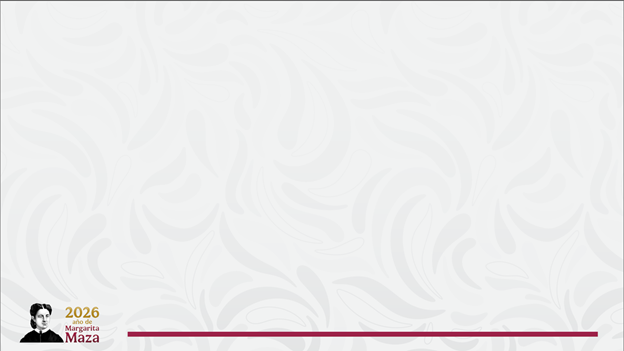
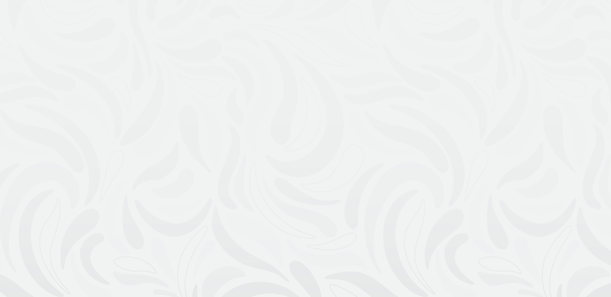
cambios2

Changed region(s): [[0.0, 0.0, 1.0, 1.0], [0.1866, 0.9394, 0.964, 0.9697], [0.0311, 0.8485, 0.1555, 1.0]]

diff --git a/app.py b/app.py
@@ -686,6 +686,14 @@ def generar_reporte_quincenal_html(registros, periodo_label):
 
             secciones_html += f'''
             <div class="pagina">
+                <div class="encabezado-pagina">
+                    <div class="encabezado-texto">
+                        <p class="proyecto">Proyecto ferroviario</p>
+                        <p class="tramo-nombre">TRAMO {tramo_nombre}</p>
+                        <p class="liberacion">Liberación del derecho de vía <span style="color:#6E152E;">(Propiedad Social)</span></p>
+                    </div>
+                    <div class="encabezado-logo"></div>
+                </div>
                 <div class="seccion-header verde">
                     ACTIVIDADES REALIZADAS EN CAMPO Y/O GABINETE, PROPIEDAD SOCIAL
                 </div>
@@ -723,6 +731,14 @@ def generar_reporte_quincenal_html(registros, periodo_label):
 
             secciones_html += f'''
             <div class="pagina">
+                <div class="encabezado-pagina">
+                    <div class="encabezado-texto">
+                        <p class="proyecto">Proyecto ferroviario</p>
+                        <p class="tramo-nombre">TRAMO {tramo_nombre}</p>
+                        <p class="liberacion">Liberación del derecho de vía <span style="color:#6E152E;">(Propiedad Social)</span></p>
+                    </div>
+                    <div class="encabezado-logo"></div>
+                </div>
                 <div class="seccion-header verde">
                     ACTIVIDADES REALIZADAS EN CAMPO (MEDICIÓN) &ndash; PROPIEDAD SOCIAL
                 </div>
@@ -756,6 +772,14 @@ def generar_reporte_quincenal_html(registros, periodo_label):
 
             secciones_html += f'''
             <div class="pagina">
+                <div class="encabezado-pagina">
+                    <div class="encabezado-texto">
+                        <p class="proyecto">Proyecto ferroviario</p>
+                        <p class="tramo-nombre">TRAMO {tramo_nombre}</p>
+                        <p class="liberacion">Liberación del derecho de vía <span style="color:#6E152E;">(Propiedad Privada)</span></p>
+                    </div>
+                    <div class="encabezado-logo"></div>
+                </div>
                 <div class="seccion-header verde">
                     ACTIVIDADES REALIZADAS EN CAMPO Y/O GABINETE, PROPIEDAD PRIVADA
                 </div>
@@ -793,6 +817,14 @@ def generar_reporte_quincenal_html(registros, periodo_label):
 
             secciones_html += f'''
             <div class="pagina">
+                <div class="encabezado-pagina">
+                    <div class="encabezado-texto">
+                        <p class="proyecto">Proyecto ferroviario</p>
+                        <p class="tramo-nombre">TRAMO {tramo_nombre}</p>
+                        <p class="liberacion">Liberación del derecho de vía <span style="color:#6E152E;">(Propiedad Privada)</span></p>
+                    </div>
+                    <div class="encabezado-logo"></div>
+                </div>
                 <div class="seccion-header verde">
                     ACTIVIDADES REALIZADAS EN CAMPO (MEDICIÓN) &ndash; PROPIEDAD PRIVADA
                 </div>
@@ -838,13 +870,35 @@ def generar_reporte_quincenal_html(registros, periodo_label):
     position: relative;
   }}
   /* ENCABEZADO */
-  .pagina::before {{
-    content: '';
-    display: block;
-    background: url('/static/logo_sedatu_ran_1.png') no-repeat left center;
+  .encabezado-pagina {{
+    display: flex;
+    justify-content: space-between;
+    align-items: flex-start;
+    margin-bottom: 20px;
+  }}
+  .encabezado-texto p.proyecto {{
+    font-size: 13px;
+    color: #BC945A;
+    font-style: italic;
+    margin-bottom: 2px;
+  }}
+  .encabezado-texto p.tramo-nombre {{
+    font-size: 20px;
+    font-weight: bold;
+    color: #6E152E;
+    text-transform: uppercase;
+    margin-bottom: 2px;
+  }}
+  .encabezado-texto p.liberacion {{
+    font-size: 13px;
+    color: #245C4F;
+    font-weight: 500;
+  }}
+  .encabezado-logo {{
+    width: 160px;
+    height: 45px;
+    background: url('/static/encabezado_html1.png') no-repeat right center;
     background-size: contain;
-    height: 48px;
-    margin-bottom: 28px;
   }}
   /* PORTADA */
   .portada-seccion {{
@@ -945,7 +999,7 @@ def generar_reporte_quincenal_html(registros, periodo_label):
     letter-spacing: 0.05em;
   }}
   .seccion-header.verde {{ background: #245C4F; }}
-  .seccion-header.verde2 {{ background: #245C4F; margin-top: 24px; }}
+  .seccion-header.guinda {{ background: #6E152E; margin-top: 24px; }}
   .seccion-body {{
     padding: 0 8px 16px 8px;
     font-size: 13px;
